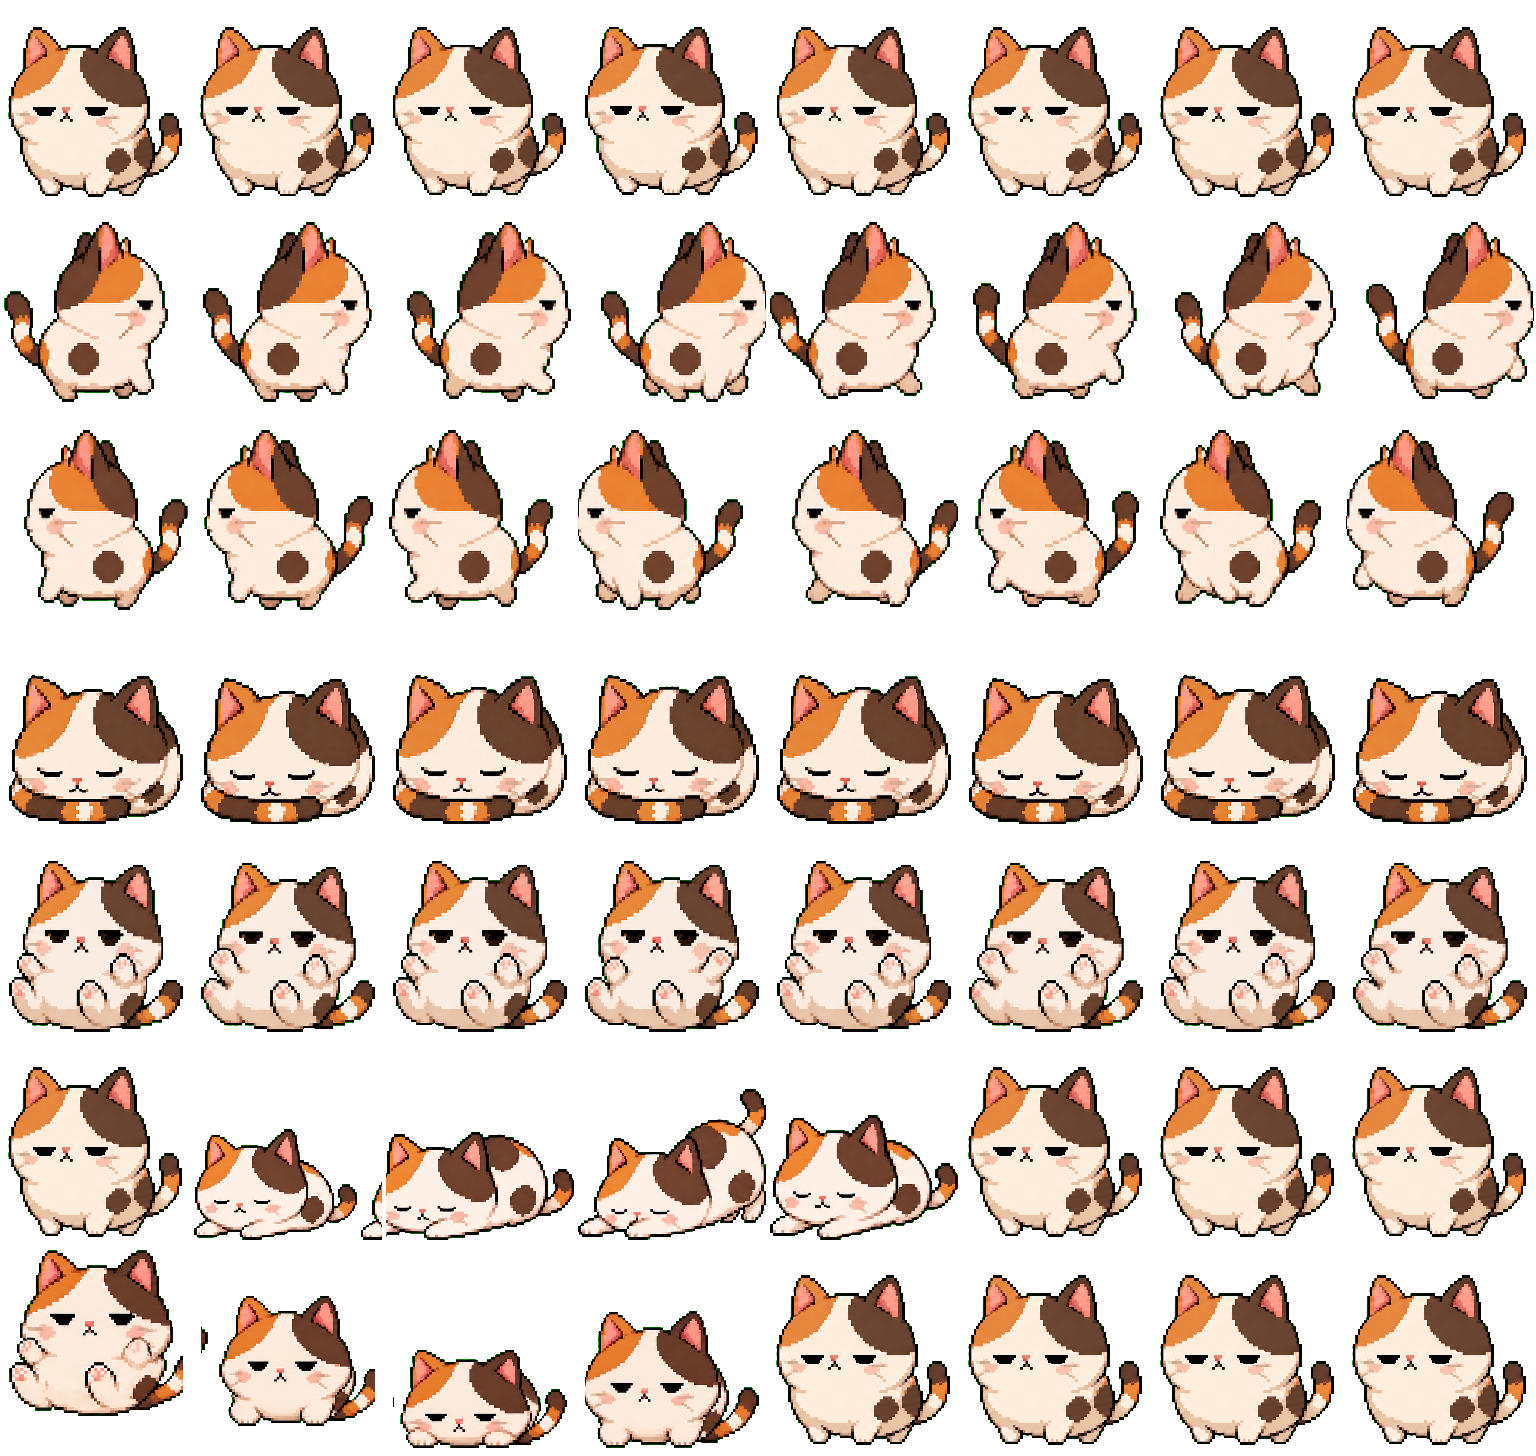
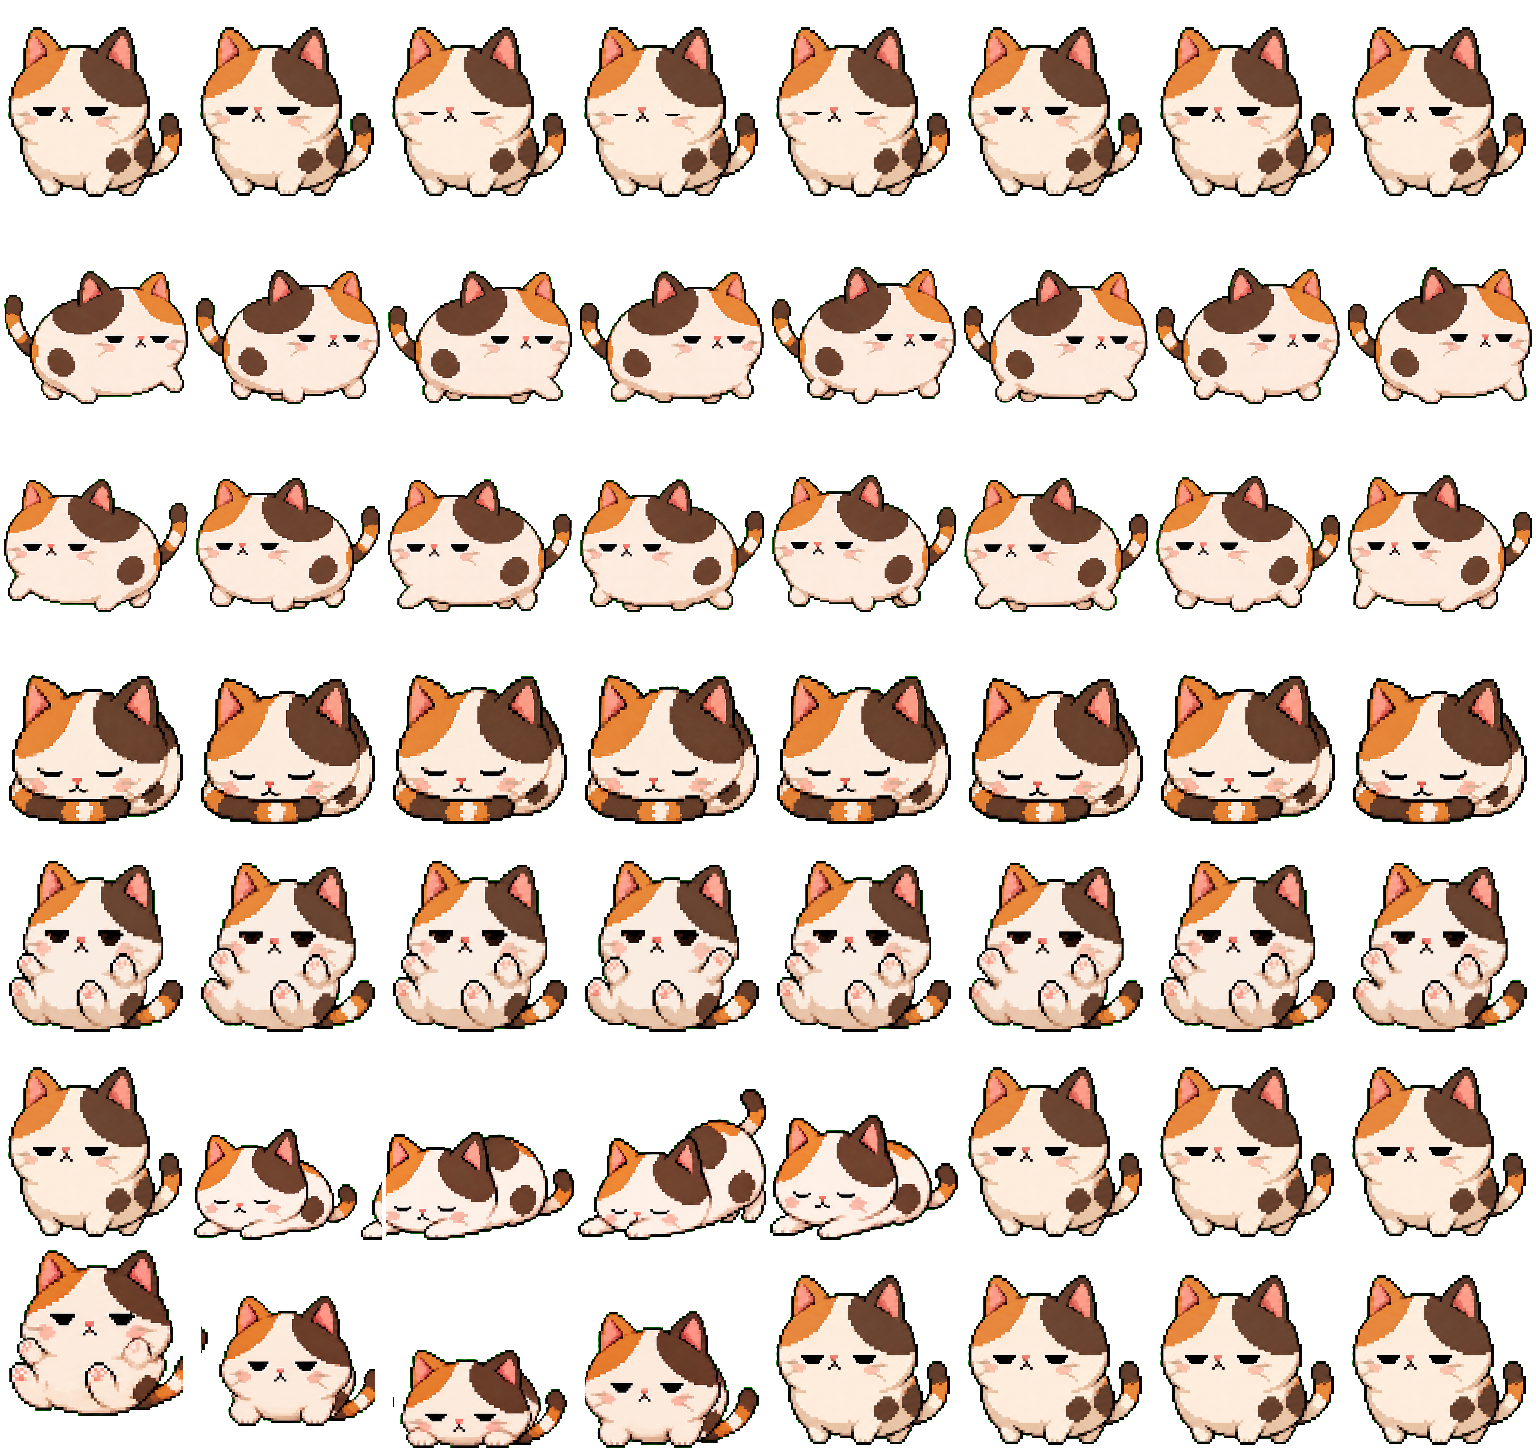
fix: refine FatMochi interaction animation

Changed region(s): [[0.0, 0.0618, 1.0, 0.4327], [0.3438, 0.0618, 0.4062, 0.1236], [0.5938, 0.0927, 0.625, 0.1236]]

diff --git a/Tests/RoamlingLogicTests/PetLogicTests.swift b/Tests/RoamlingLogicTests/PetLogicTests.swift
@@ -82,15 +82,17 @@ func petLogicTests() -> [LogicTest] {
             let left = try require(pet.tracks["running-left"])
             let sleep = try require(pet.tracks["sleeping"])
             let caught = try require(pet.tracks["caught"])
+            let dragged = try require(pet.tracks["dragged"])
             let stretch = try require(pet.tracks["stretching"])
             let landing = try require(pet.tracks["landing"])
 
             try expect(idle.frames.map(\.index) == [0, 1, 2, 3, 4, 5])
-            try expect(idle.frames.first?.duration == 1.55)
+            try expect(idle.frames.first?.duration == 1.25)
             try expect(right.frames.map(\.index) == Array(8...15))
             try expect(left.frames.map(\.index) == Array(16...23))
             try expect(sleep.frames.map(\.index) == [24, 25, 26, 27])
             try expect(caught.frames.map(\.index) == [32, 33, 34, 35])
+            try expect(dragged.frames.map(\.index) == [32, 33, 34, 35])
             try expect(stretch.frames.map(\.index) == [40, 41, 42, 43, 44, 45])
             try expect(!stretch.loops)
             try expect(landing.frames.map(\.index) == [48, 49, 50, 51, 52])
@@ -105,9 +107,28 @@ func petLogicTests() -> [LogicTest] {
             let sleepSignatures = try Array(24...27).map {
                 try require(imageSignature(try require(pet.frameImage(at: $0))))
             }
+            let walkMetrics = try Array(8...15).map {
+                try require(alphaMetrics(try require(pet.frameImage(at: $0))))
+            }
             try expect(Set(idleSignatures).count == 4)
             try expect(Set(rightSignatures).count == 8)
             try expect(Set(sleepSignatures).count == 4)
+            let walkCentroids = walkMetrics.map { $0.centroidX }
+            let minimumWalkCentroid = try require(walkCentroids.min())
+            let maximumWalkCentroid = try require(walkCentroids.max())
+            try expect(maximumWalkCentroid - minimumWalkCentroid < 2)
+            try expect(walkMetrics.allSatisfy { Double($0.width) / Double($0.height) > 1.3 })
+        },
+        LogicTest(name: "FatMochi dragged animation advances while held") {
+            var player = PetAnimationPlayer(asset: MascotPetFactory.make(.fatMochi))
+            player.setCapability(.dragged)
+            try expect(player.currentFrameIndex == 32)
+            player.update(deltaTime: 0.12)
+            try expect(player.currentFrameIndex == 33)
+            player.update(deltaTime: 0.22)
+            try expect(player.currentFrameIndex == 35)
+            player.update(deltaTime: 0.12)
+            try expect(player.currentFrameIndex == 32)
         },
         LogicTest(name: "Mochi pose-derived cycles remain reversible") {
             let pet = MascotPetFactory.make(.mochi)
@@ -260,6 +281,44 @@ private func imageSignature(_ image: CGImage) -> UInt64? {
     return bytes.reduce(UInt64(1_469_598_103_934_665_603)) { partial, byte in
         (partial ^ UInt64(byte)) &* 1_099_511_628_211
     }
+}
+
+private func alphaMetrics(_ image: CGImage) -> (width: Int, height: Int, centroidX: Double)? {
+    let bytesPerRow = image.width * 4
+    var bytes = [UInt8](repeating: 0, count: bytesPerRow * image.height)
+    guard let context = CGContext(
+        data: &bytes,
+        width: image.width,
+        height: image.height,
+        bitsPerComponent: 8,
+        bytesPerRow: bytesPerRow,
+        space: CGColorSpaceCreateDeviceRGB(),
+        bitmapInfo: CGImageAlphaInfo.premultipliedLast.rawValue
+    ) else { return nil }
+    context.draw(image, in: CGRect(x: 0, y: 0, width: image.width, height: image.height))
+
+    var minimumX = image.width
+    var maximumX = -1
+    var minimumY = image.height
+    var maximumY = -1
+    var xTotal = 0.0
+    var pixelCount = 0
+    for y in 0..<image.height {
+        for x in 0..<image.width where bytes[y * bytesPerRow + x * 4 + 3] > 8 {
+            minimumX = min(minimumX, x)
+            maximumX = max(maximumX, x)
+            minimumY = min(minimumY, y)
+            maximumY = max(maximumY, y)
+            xTotal += Double(x)
+            pixelCount += 1
+        }
+    }
+    guard pixelCount > 0 else { return nil }
+    return (
+        width: maximumX - minimumX + 1,
+        height: maximumY - minimumY + 1,
+        centroidX: xTotal / Double(pixelCount)
+    )
 }
 
 private final class FixturePackage {

diff --git a/Sources/RoamlingMac/RoamlingRuntime.swift b/Sources/RoamlingMac/RoamlingRuntime.swift
@@ -261,6 +261,21 @@ public final class RoamlingRuntime: NSObject, PetOverlayViewDelegate {
         applyTuning(.standard)
     }
 
+    /// Exposes the current MVP 0.7 wake animation for feel testing without
+    /// waiting through the full idle -> sit -> sleep lifecycle.
+    public func stretchNow() {
+        guard behavior.state != .caught && behavior.state != .dragged else { return }
+        let now = ProcessInfo.processInfo.systemUptime
+        restDestination = nil
+        isEvadeTransitioning = false
+        movement.cancelRoute(stop: true)
+        behavior.handle(.beginStretch, at: now)
+        nextWanderAt = now + 1.4
+        updateAnimation(pointerDegrees: nil)
+        renderCurrentFrame()
+        if running { scheduleNextTick(after: 1 / 30) }
+    }
+
     public func petOverlayMouseDown(screenPoint: NSPoint) {
         let now = ProcessInfo.processInfo.systemUptime
         guard areInteractionsEnabled, now <= catchArmedUntil else {
@@ -390,7 +405,7 @@ public final class RoamlingRuntime: NSObject, PetOverlayViewDelegate {
         return switch behavior.state {
         case .wander, .evadePointer, .findSleepSpot, .travelToInterest:
             1 / 60
-        case .caught, .dragged, .dropped:
+        case .caught, .dragged, .dropped, .wake, .stretch:
             1 / 30
         case .lookAtPointer:
             1 / 16

diff --git a/Sources/RoamlingPet/MascotPetFactory.swift b/Sources/RoamlingPet/MascotPetFactory.swift
@@ -75,7 +75,7 @@ public enum MascotPetFactory {
         )
 
         let idleFrames: [(Int, TimeInterval)] = [
-            (0, 1.55), (1, 0.09), (2, 0.08), (3, 0.10), (4, 0.08), (5, 0.09)
+            (0, 1.25), (1, 0.10), (2, 0.12), (3, 0.16), (4, 0.12), (5, 0.10)
         ]
         let walkRightFrames = (8...15).map { ($0, 0.09) }
         let walkLeftFrames = (16...23).map { ($0, 0.09) }
@@ -92,7 +92,10 @@ public enum MascotPetFactory {
                 "caught",
                 frames: [(32, 0.13), (33, 0.13), (34, 0.13), (35, 0.13)]
             ),
-            "dragged": track("dragged", frames: [(32, 0.5)]),
+            "dragged": track(
+                "dragged",
+                frames: [(32, 0.11), (33, 0.11), (34, 0.11), (35, 0.11)]
+            ),
             "sitting": track("sitting", frames: [(0, 0.8)]),
             "landing": track(
                 "landing",
@@ -108,8 +111,8 @@ public enum MascotPetFactory {
             ),
             "stretching": track(
                 "stretching",
-                frames: [(40, 0.18), (41, 0.15), (42, 0.15),
-                         (43, 0.20), (44, 0.17), (45, 0.20)],
+                frames: [(40, 0.16), (41, 0.13), (42, 0.13),
+                         (43, 0.18), (44, 0.15), (45, 0.20)],
                 loops: false
             ),
             "waiting": track(

diff --git a/Tests/RoamlingLogicTests/CoreLogicTests.swift b/Tests/RoamlingLogicTests/CoreLogicTests.swift
@@ -249,6 +249,18 @@ func coreLogicTests() -> [LogicTest] {
             behavior.handle(.tick, at: 21.72)
             try expect(behavior.state == .idle)
         },
+        LogicTest(name: "manual stretch preview settles without breaking drag") {
+            var behavior = BehaviorController(state: .idle, enteredAt: 0)
+            behavior.handle(.beginStretch, at: 1)
+            try expect(behavior.state == .stretch)
+            behavior.handle(.tick, at: 2.01)
+            try expect(behavior.state == .idle)
+
+            behavior.handle(.catchBegan, at: 3)
+            behavior.handle(.dragMoved, at: 3.1)
+            behavior.handle(.beginStretch, at: 3.2)
+            try expect(behavior.state == .dragged)
+        },
         LogicTest(name: "basic safe zones honor visible frame and Dock inset") {
             let display = DisplaySnapshot(
                 id: "main",

diff --git a/Sources/RoamlingMac/RoamlingAppDelegate.swift b/Sources/RoamlingMac/RoamlingAppDelegate.swift
@@ -123,6 +123,14 @@ public final class RoamlingAppDelegate: NSObject, NSApplicationDelegate, NSMenuD
         tuning.target = self
         menu.addItem(tuning)
 
+        let stretch = NSMenuItem(
+            title: "Stretch Now",
+            action: #selector(stretchNow),
+            keyEquivalent: ""
+        )
+        stretch.target = self
+        menu.addItem(stretch)
+
         menu.addItem(.separator())
         let openFolder = NSMenuItem(
             title: "Open Pet Folder…",
@@ -192,6 +200,10 @@ public final class RoamlingAppDelegate: NSObject, NSApplicationDelegate, NSMenuD
             controller = created
         }
         controller.present(tuning: runtime.tuning)
+    }
+
+    @objc private func stretchNow() {
+        runtime?.stretchNow()
     }
 
     @objc private func selectInstalledPet(_ sender: NSMenuItem) {

diff --git a/Sources/RoamlingCore/BehaviorController.swift b/Sources/RoamlingCore/BehaviorController.swift
@@ -41,6 +41,7 @@ public enum BehaviorInput: Equatable, Sendable {
     case beginRest
     case seekSleepSpot
     case sleepSpotReached
+    case beginStretch
     case pointer(PointerProximity)
     case catchBegan
     case dragMoved
@@ -82,6 +83,8 @@ public struct BehaviorController: Sendable {
             if state == .sit { transition(to: .findSleepSpot, at: timestamp) }
         case .sleepSpotReached:
             if state == .findSleepSpot { transition(to: .sleep, at: timestamp) }
+        case .beginStretch:
+            if state != .caught && state != .dragged { transition(to: .stretch, at: timestamp) }
         case let .pointer(proximity):
             handlePointer(proximity, at: timestamp)
         case .catchBegan:

diff --git a/docs/mvp.md b/docs/mvp.md
@@ -64,6 +64,12 @@ caught paw wiggle, drop landing, 고양이식 forward stretch도 각각 독립 f
 active travel만 60Hz로 갱신하며 idle/sleep의 저전력 cadence는 그대로다. 이는 MVP 0.7의
 creature-quality polish이며 이후 agent integration용 animation이나 source는 미리 만들지 않는다.
 
+실사용 피드백 뒤 FatMochi walk는 세로로 긴 side pose 대신 가로/세로 silhouette 비율을
+약 1.5배 넓힌 낮고 둥근 체형으로 바꿨다. 각 frame의 alpha centroid 편차를 2px 미만으로
+정규화해 atlas 안에서 몸이 뒤로 흐르다 되감기는 moonwalk를 막는다. caught에서 dragged로
+넘어가도 네 frame paw wiggle이 계속 재생된다. idle은 승인된 검은 눈을 유지하면서 명확한
+half-close/closed frame을 사용한다.
+
 ### Explicitly out of scope for this gate
 
 - Accessibility window/focus/caret tracking — MVP 3
@@ -85,6 +91,11 @@ creature-quality polish이며 이후 agent integration용 animation이나 source
 - nearby pointer/catch/drag는 sleep보다 높은 우선순위를 가진다.
 - sleep 중 불필요한 render wakeup을 2Hz 수준으로 낮춘다.
 - 추가 macOS permission prompt가 없다.
+- menu bar의 `Stretch Now`로 75초 idle을 기다리지 않고 wake/stretch 품질을 확인할 수 있다.
+
+정상 lifecycle에서 기지개는 75초 input idle 후 sit/safe-zone travel/sleep까지 들어간 다음,
+keyboard 또는 pointer input으로 깨어날 때 재생된다. `Stretch Now`는 이 MVP 0.7 동작의
+체감 검증 shortcut일 뿐 별도 behavior milestone을 앞당기지 않는다.
 
 ## Exit rule
 

diff --git a/docs/architecture.md b/docs/architecture.md
@@ -302,7 +302,7 @@ route를 사용할 수 있다.
 normal/look/evade  -> window click-through
 catch armed AND pointer in pet ellipse -> interactive
 mouseDown          -> caught
-mouseDragged       -> dragged; global pointer point로 panel 이동
+mouseDragged       -> dragged; global pointer point로 panel 이동 + caught paw cycle 계속 재생
 mouseUp            -> nearest visible frame clamp, dropped, click-through
 ```
 
@@ -315,6 +315,11 @@ window가 sprite 크기이고 hit ellipse가 투명 margin을 제외하므로 in
 catch window와 hit region이 실행 중 반영되고 `UserDefaults`에 저장된다. MVP 0.7의
 rest timing은 첫 체감 검증 전까지 별도 고정 configuration으로 두며 기존 tuning 값을
 섞지 않는다.
+
+FatMochi의 walk row는 frame마다 alpha silhouette을 독립적으로 중앙 정렬한다. renderer가
+world position을 이동시키므로 atlas cell 안의 torso centroid는 2px 이상 좌우로 움직이지
+않아야 한다. 이 invariant와 가로/세로 silhouette 비율은 asset test로 고정해 moonwalk나
+다시 홀쭉해지는 regression을 막는다.
 
 ## Safe-zone design
 

diff --git a/Sources/RoamlingPet/Resources/BuiltInPets/README.md b/Sources/RoamlingPet/Resources/BuiltInPets/README.md
@@ -59,8 +59,16 @@ six-frame feline forward stretch; and a five-frame drop/squash/recovery. Frame
 normalization and chroma removal were performed locally with nearest-neighbor
 sampling. No generated frame was uploaded again after chroma processing.
 
+The second walk pass responded to desktop testing: the side silhouette is about
+1.5× wider relative to its height, while every frame is tightly cropped and
+re-centered. Its alpha centroid varies by less than two source pixels across
+the cycle, preventing the old leftward drift and snap-back that read as a
+moonwalk. The walk prompt explicitly specifies planted-paw travel, lifted-paw
+recovery, chronological opposing contacts, a fixed torso, and a seamless
+frame-eight-to-frame-one transition.
+
 The working chroma-key prompts changed only the background to a flat solid
 `#00FF00`; transparency was produced locally without network upload.
 
-These two PNG files are distributed under GPL-3.0-only with this repository.
+These built-in PNG files are distributed under GPL-3.0-only with this repository.
 Roamling names and branding are additionally covered by `TRADEMARKS.md`.
